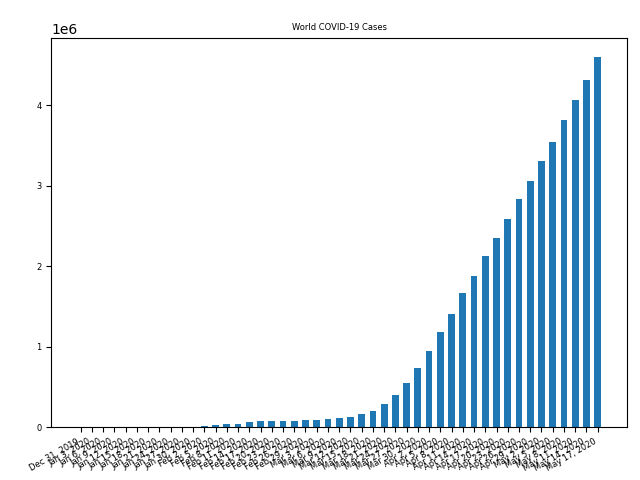
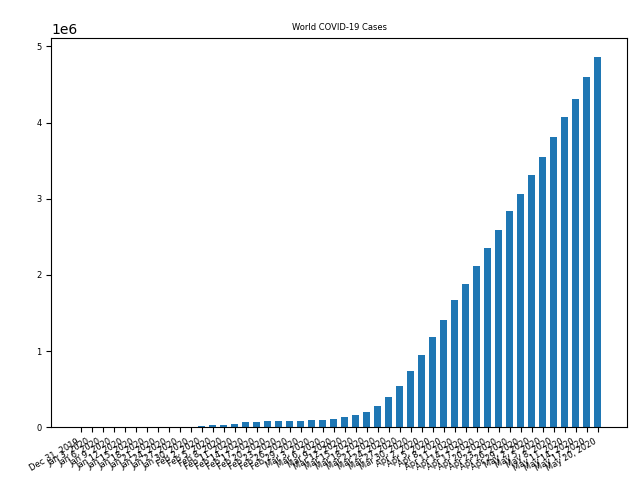
new

Changed region(s): [[0.0625, 0.2812, 0.9062, 1.0]]

diff --git a/coronavirus/main_v1.3.py b/coronavirus/main_v1.3.py
@@ -15,17 +15,11 @@ from selenium.webdriver.common.action_chains import ActionChains
 from main import plotData,preprocessData
 #from predictStatistics import predict
 
-mainUrl = "https://google.com/covid19-map/"
+#mainUrl = 'https://google.com/covid19-map/'
+mainUrl = 'https://news.google.com/covid19/map'
 
 def parseXpathTr(tr,columns):
     location,confirmed,Case_Per_1M_people,recovered,deaths = '','','','',''
-
-    #span = tr.find_element_by_xpath('//th[@class="l3HOY"]/div/span')
-    #span = tr.find_elements(By.TAG_NAME, "span")
-    #if len(span) > 1:
-        #location = span[1].text
-    #elif len(span) == 1:
-        #location = span[0].text
     
     #path='//th[@class="l3HOY"]/div/div[@class="pcAJd"]'
     #path='//th/div[@class="pcAJd"]'
@@ -57,10 +51,9 @@ def parseXpathTr(tr,columns):
     if confirmed == '' or confirmed == '—':
         confirmed = '0'
 
-    #print('Location:',location,'Confirmed:',confirmed,'Case_Per_1M_people:',Case_Per_1M_people,'Recovered:',recovered,'deaths:',deaths)
-    #columns=['Localtion', 'Confirmed',  'Case_Per_1M_people', 'Recovered', 'Deaths']
-    dfLine = pd.DataFrame([[location, confirmed, Case_Per_1M_people, recovered, deaths]], columns=columns)
-    return dfLine
+    print('Location:',location,'Confirmed:',confirmed,'Case_Per_1M_people:',Case_Per_1M_people,'Recovered:',recovered,'deaths:',deaths)
+    return pd.DataFrame([[location, confirmed, Case_Per_1M_people, recovered, deaths]], columns=columns)
+
 
 def getHeader(thead):
     ths = thead.find_elements_by_xpath('//tr[@class="sgXwHf"]//div[@class="XmCM0b"]')
@@ -97,7 +90,7 @@ def Load(url):
     print("Open:",url)
     driver = webdriver.Chrome()
     driver.get(mainUrl)
-    sleep(1)
+    sleep(2)
     
     #btn_More='//*[@id="yDmH0d"]/c-wiz/div/div[2]/div[2]/div[4]/div'
     #clickBtn(driver,btn_More)
@@ -105,8 +98,9 @@ def Load(url):
     #X = '//*[@id="yDmH0d"]/c-wiz/div/div/div/div/div[2]/div[2]/c-wiz/div/div[2]/div/div[1]/table'
     X = '//table[@class="pH8O4c"]'
     table_id = driver.find_element_by_xpath(X)
-    scroll_down_element(driver,table_id) #do an table action to get all table lines
-    sleep(1)
+    
+    #scroll_down_element(driver,table_id) #do an table action to get all table lines
+    #sleep(1)
     
     thead = table_id.find_element_by_tag_name('thead')
     tbody = table_id.find_element_by_tag_name('tbody')

diff --git a/coronavirus/plotCoronavirous.py b/coronavirus/plotCoronavirous.py
@@ -11,6 +11,8 @@ import matplotlib.pyplot as plt
 gSaveBasePath=r'.\images\\'
 
 def plotData(df,number = 25):    
+    if number>df.shape[0]:
+        number = df.shape[0]
     #df = df.iloc[1:number,:]
     worldDf = df.iloc[:1,:]
     
@@ -63,6 +65,9 @@ def plotData(df,number = 25):
     for i,data in enumerate(dfs): 
         dataFrame = data[1]
         #print('dataFrame.shape=',i,dataFrame.shape)
+        if dataFrame.shape[0] == 0:
+            continue
+            
         kind='bar'
         if number>25:
             dataFrame = binaryDf(dataFrame)
